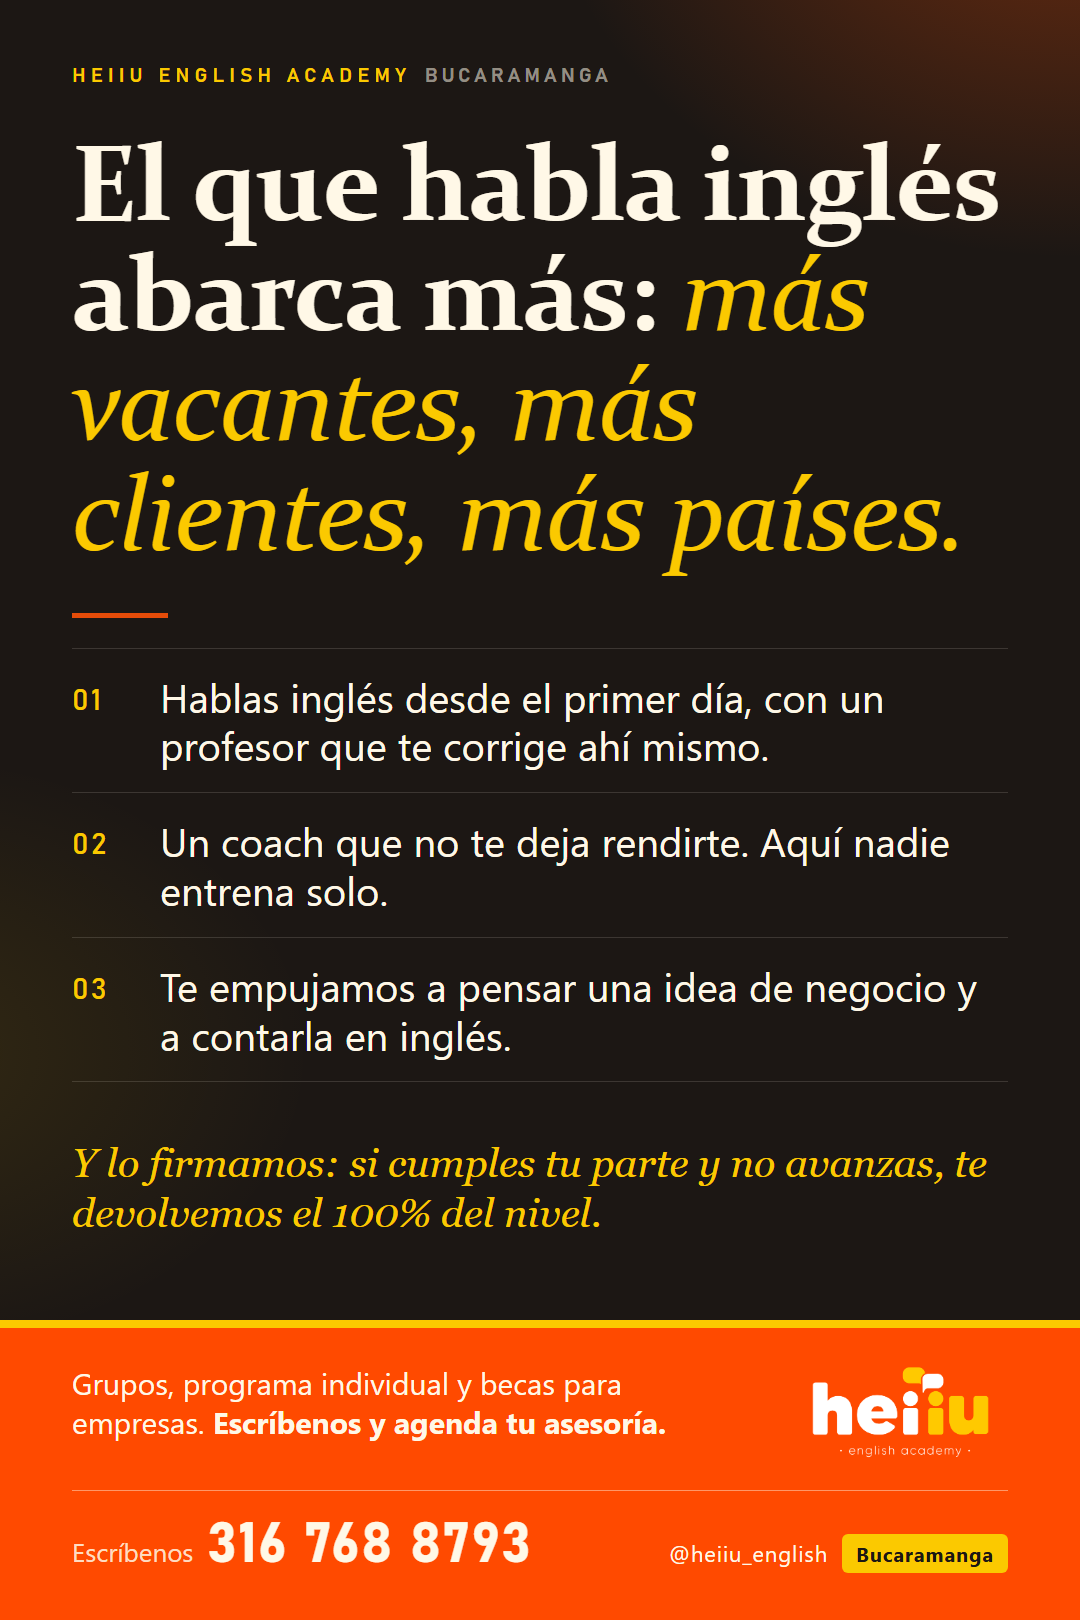
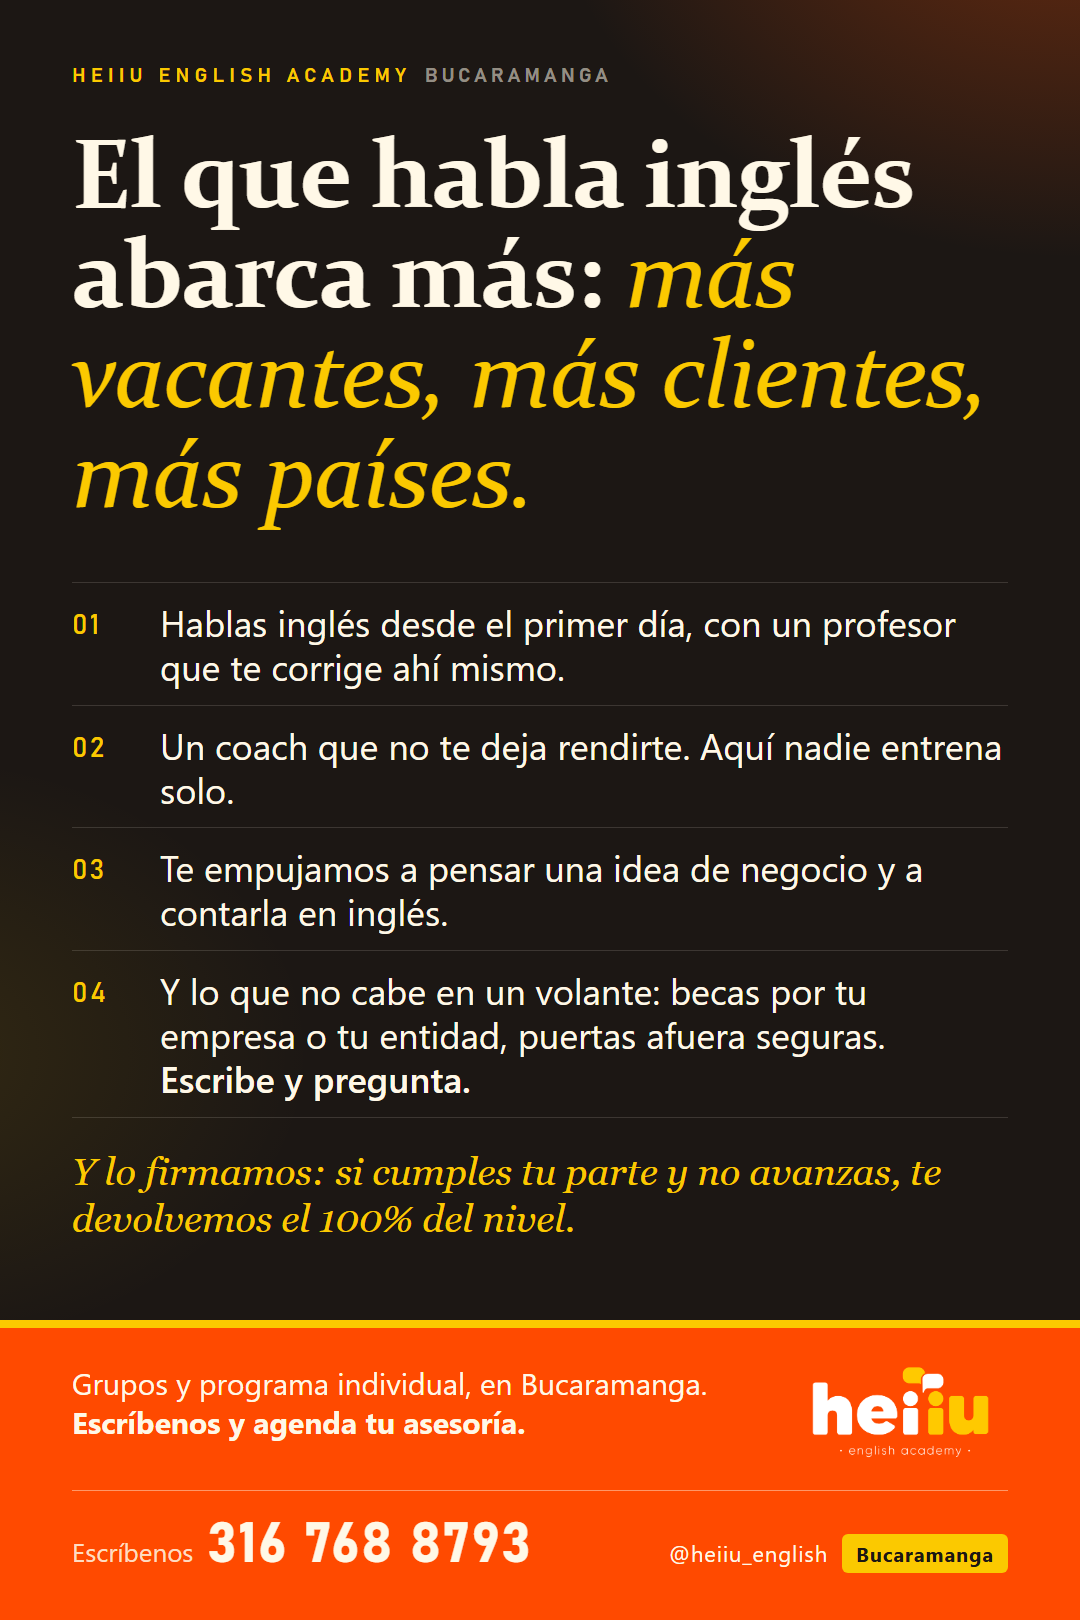
Volante de calle A: cuarta linea 'lo que no cabe en un volante: becas por tu empresa o tu entidad, puertas afuera seguras; escribe y pregunta'; tipografia de calle ajustada para que quepa la garantia

diff --git a/generadores/comercial/gen_piezas_conciencia.py b/generadores/comercial/gen_piezas_conciencia.py
@@ -371,9 +371,10 @@ PIEZAS = {
         h1='El que habla inglés abarca más: <em>más vacantes, más clientes, más países.</em>',
         st=[('Hablas inglés desde el primer día, con un profesor que te corrige ahí mismo.'),
             ('Un coach que no te deja rendirte. Aquí nadie entrena solo.'),
-            ('Te empujamos a pensar una idea de negocio y a contarla en inglés.')],
+            ('Te empujamos a pensar una idea de negocio y a contarla en inglés.'),
+            ('Y lo que no cabe en un volante: becas por tu empresa o tu entidad, puertas afuera seguras. <b>Escribe y pregunta.</b>')],
         lead='Y lo firmamos: si cumples tu parte y no avanzas, te devolvemos el 100% del nivel.', big='', big2='',
-        band='Grupos, programa individual y becas para empresas. <b>Escríbenos y agenda tu asesoría.</b>',
+        band='Grupos y programa individual, en Bucaramanga. <b>Escríbenos y agenda tu asesoría.</b>',
         band_px=300),
     'CALLE_B': dict(
         calle=True, label='HEIIU ENGLISH ACADEMY', sub='BUCARAMANGA',
@@ -400,12 +401,12 @@ blockquote { border-left-color: #E54C09; background: rgba(229,76,9,.06); color: 
 """
 
 CALLE = """
-h1 { font-size: 108px; line-height: 1.02; margin-top: 40px }
-.rule { margin: 44px 0 30px 0 }
-ol.st li { padding: 24px 0 22px 0; grid-template-columns: 70px 1fr }
-ol.st .n { font-size: 30px; padding-top: 10px }
-ol.st p { font-size: 40px; line-height: 1.22; color: #FFF8E7; font-weight: 400 }
-.pivot .lead { font-size: 40px; line-height: 1.25 }
+h1 { font-size: 98px; line-height: 1.02; margin-top: 36px }
+.rule { margin: 36px 0 22px 0 }
+ol.st li { padding: 18px 0 16px 0; grid-template-columns: 70px 1fr }
+ol.st .n { font-size: 28px; padding-top: 8px }
+ol.st p { font-size: 36px; line-height: 1.22; color: #FFF8E7; font-weight: 400 }
+.pivot { padding-top: 30px } .pivot .lead { font-size: 38px; line-height: 1.25 }
 .band p { font-size: 30px; line-height: 1.3 }
 .cta .tel { font-size: 56px } .cta .tel small { font-size: 26px }
 """
